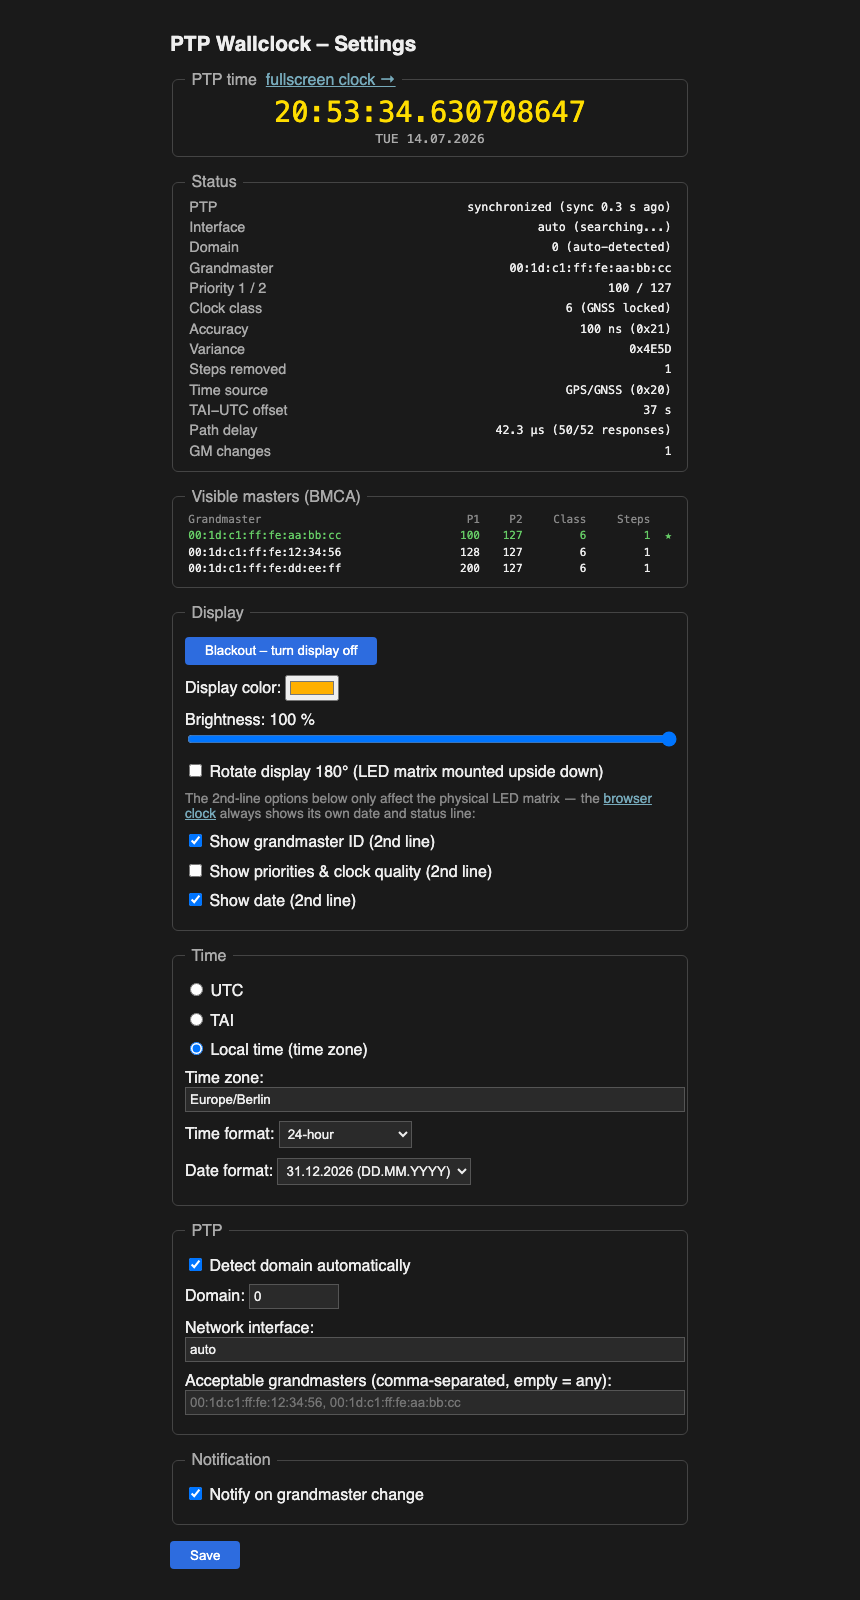
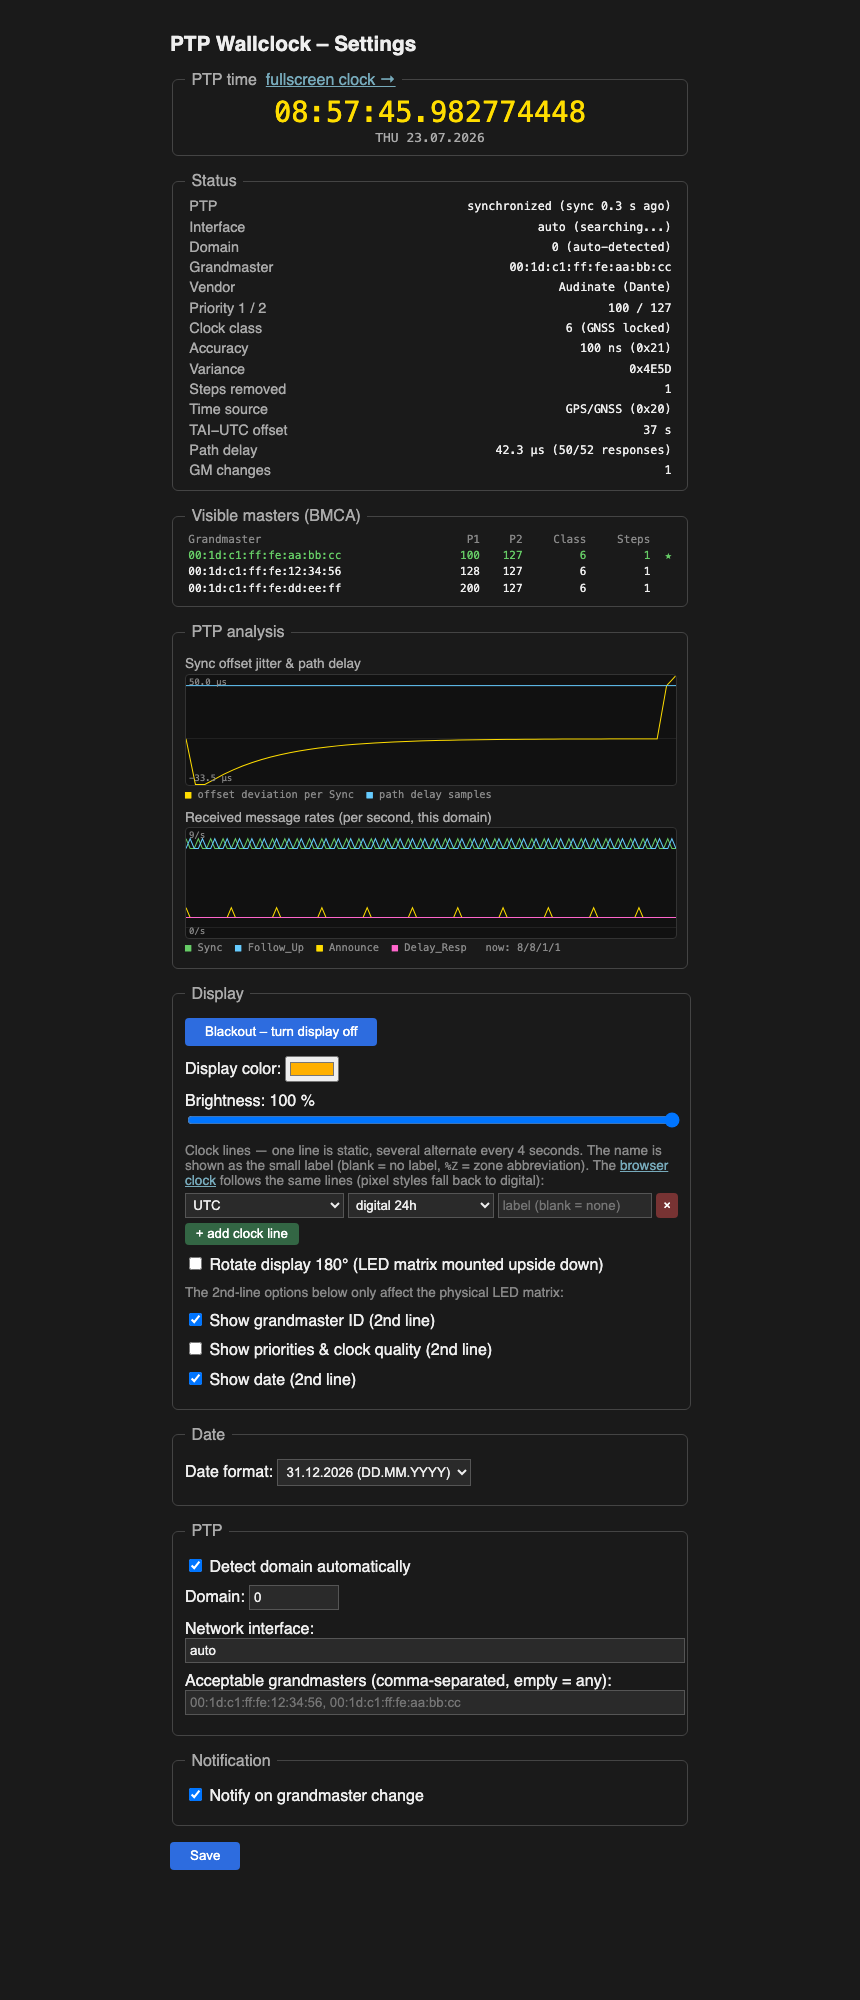
PTP analysis on the settings page: jitter/delay chart and message rates
The server keeps ring buffers (150 entries, mutex-guarded) of the sync
offset deviation per completed Sync pair, the raw path-delay samples,
and per-second received-message counts for Sync / Follow_Up / Announce /
Delay_Resp (domain-filtered wire view, counted before the BMCA filter,
rolled once per second in the main-loop tick). A new /api/history
endpoint exports them oldest-first.

The settings page draws two plain-canvas charts (no libraries): sync
offset jitter together with path-delay samples in µs, and the four
message rates with a live "now" readout. Autoscaling uses percentiles
so the step of a master switch clips at the edge instead of flattening
the µs range. Settings screenshot refreshed.

diff --git a/ptp-clock.cpp b/ptp-clock.cpp
@@ -288,6 +288,27 @@ static std::atomic<bool> g_reset_ptp{false};   // web thread requests state rese
 static std::atomic<bool> g_iface_changed{false};  // web thread changed iface
 static std::atomic<bool> g_iface_up{false};    // multicast currently joined
 
+// ---- PTP analysis history (rings guarded by g_mutex) ----
+static const int kHistN = 150;
+static int32_t g_hist_off[kHistN];             // offset deviation per Sync, ns
+static int g_hist_off_n = 0, g_hist_off_i = 0;
+static int32_t g_hist_del[kHistN];             // path delay samples, ns
+static int g_hist_del_n = 0, g_hist_del_i = 0;
+struct RateSample { uint16_t sync, fup, ann, dresp; };
+static RateSample g_hist_rate[kHistN];         // received messages per second
+static int g_hist_rate_n = 0, g_hist_rate_i = 0;
+// per-second counters (domain-filtered wire view), reset every second
+static std::atomic<uint32_t> g_cnt_sync{0}, g_cnt_fup{0};
+static std::atomic<uint32_t> g_cnt_ann{0}, g_cnt_dresp{0};
+
+static void hist_push(int32_t *buf, int &n, int &i, int64_t v) {
+    if (v > 2000000000LL) v = 2000000000LL;
+    if (v < -2000000000LL) v = -2000000000LL;
+    buf[i] = (int32_t)v;
+    i = (i + 1) % kHistN;
+    if (n < kHistN) n++;
+}
+
 // ---- Helpers ----
 static uint64_t mono_ns() {
     timespec ts;
@@ -721,6 +742,12 @@ static void complete_sync_pair(int64_t t1, int64_t t2) {
     g_have_pair = true;
 
     int64_t sample = t2 - t1 - (g_have_mpd ? g_mpd_ns : 0);
+    // Analysis history: how far this sync was off the smoothed estimate
+    {
+        std::lock_guard<std::mutex> lock(g_mutex);
+        hist_push(g_hist_off, g_hist_off_n, g_hist_off_i,
+                  g_have_offset ? sample - g_offset_ns : 0);
+    }
     if (!g_have_offset || llabs(sample - g_offset_ns) > 100000000LL) {
         g_offset_ns = sample;             // first sample or step: jump
         g_have_offset = true;
@@ -740,6 +767,7 @@ static void process_event_packet(const uint8_t *buf, ssize_t len,
     uint8_t msg_type = buf[0] & 0x0F;
     if (msg_type != 0x00)                 // only Sync
         return;
+    g_cnt_sync++;
 
     // BMCA: only accept Sync from the elected master
     if (!g_have_master || memcmp(buf + 20, g_elected_sender, 10) != 0)
@@ -772,6 +800,7 @@ static void process_general_packet(const uint8_t *buf, ssize_t len,
 
     // --- Announce (0x0B): feed the BMCA master list ---
     if (msg_type == 0x0B && len >= 64) {
+        g_cnt_ann++;
         g_last_announce_mono_ns = now_mono;
 
         GMInfo gm;
@@ -822,6 +851,7 @@ static void process_general_packet(const uint8_t *buf, ssize_t len,
     }
     // --- Follow_Up (0x08): precise origin timestamp (t1) ---
     else if (msg_type == 0x08) {
+        g_cnt_fup++;
         uint16_t seq = (buf[30] << 8) | buf[31];
         if (g_pending_sync.valid && g_pending_sync.seq == seq &&
             memcmp(g_pending_sync.src, buf + 20, 10) == 0) {
@@ -833,6 +863,7 @@ static void process_general_packet(const uint8_t *buf, ssize_t len,
     }
     // --- Delay_Resp (0x09): t4 for our Delay_Req ---
     else if (msg_type == 0x09 && len >= 54) {
+        g_cnt_dresp++;
         if (!g_pending_dreq.valid || !g_have_pair)
             return;
         if (memcmp(buf + 44, g_clock_id, 8) != 0 ||
@@ -861,6 +892,10 @@ static void process_general_packet(const uint8_t *buf, ssize_t len,
         }
         g_path_delay_ns = g_mpd_ns;
         g_dresp_received++;
+        {
+            std::lock_guard<std::mutex> lock(g_mutex);
+            hist_push(g_hist_del, g_hist_del_n, g_hist_del_i, sample);
+        }
     }
 }
 
@@ -1047,6 +1082,38 @@ static std::string settings_json() {
     return j.str();
 }
 
+// Analysis history for the settings-page charts (oldest first)
+static std::string history_json() {
+    std::lock_guard<std::mutex> lock(g_mutex);
+    std::ostringstream j;
+    auto ring = [&](const int32_t *buf, int n, int i) {
+        for (int k = 0; k < n; ++k) {
+            int idx = (i - n + k + 2 * kHistN) % kHistN;
+            j << (k ? "," : "") << buf[idx];
+        }
+    };
+    j << "{\"offset\":[";
+    ring(g_hist_off, g_hist_off_n, g_hist_off_i);
+    j << "],\"delay\":[";
+    ring(g_hist_del, g_hist_del_n, g_hist_del_i);
+    j << "],\"rates\":{";
+    const char *names[4] = {"sync", "fup", "ann", "dresp"};
+    for (int f = 0; f < 4; ++f) {
+        j << (f ? "," : "") << "\"" << names[f] << "\":[";
+        for (int k = 0; k < g_hist_rate_n; ++k) {
+            int idx = (g_hist_rate_i - g_hist_rate_n + k + 2 * kHistN)
+                      % kHistN;
+            const RateSample &r = g_hist_rate[idx];
+            uint16_t v = f == 0 ? r.sync : f == 1 ? r.fup
+                       : f == 2 ? r.ann : r.dresp;
+            j << (k ? "," : "") << v;
+        }
+        j << "]";
+    }
+    j << "}}";
+    return j.str();
+}
+
 // Favicon: an LED-style clock face (served at /favicon.svg)
 static const char *kFaviconSvg = R"SVG(<svg xmlns="http://www.w3.org/2000/svg" viewBox="0 0 64 64">
  <rect width="64" height="64" rx="14" fill="#0b0b0b"/>
@@ -1173,6 +1240,11 @@ static const char *kIndexHtml = R"HTML(<!DOCTYPE html>
         padding: 0.6em; border-radius: 4px; margin-bottom: 1em; }
  #saved { color: #6c6; visibility: hidden; margin-left: 1em; }
  .hint { color: #888; font-size: 0.85em; margin: 0.8em 0 0.2em; }
+ canvas.chart { width: 100%; height: 110px; background: #111;
+        border: 1px solid #333; border-radius: 4px; display: block; }
+ .chart-title { color: #aaa; font-size: 0.85em; margin: 0.7em 0 0.2em; }
+ .chart-legend { color: #888; font-size: 0.8em; margin: 0.2em 0 0.4em;
+        font-family: monospace; }
  .crow { display: flex; gap: 4px; margin: 0.3em 0; }
  .crow select, .crow input { padding: 0.25em; background: #2a2a2a;
         color: #eee; border: 1px solid #555; }
@@ -1223,6 +1295,22 @@ static const char *kIndexHtml = R"HTML(<!DOCTYPE html>
 <fieldset>
 <legend>Visible masters (BMCA)</legend>
 <table class="masters" id="masters"><tr><td>none</td></tr></table>
+</fieldset>
+
+<fieldset>
+<legend>PTP analysis</legend>
+<div class="chart-title">Sync offset jitter &amp; path delay</div>
+<canvas class="chart" id="ch_off"></canvas>
+<div class="chart-legend"><span style="color:#fd0">&#9632;</span> offset
+deviation per Sync &nbsp;<span style="color:#6cf">&#9632;</span> path delay
+samples</div>
+<div class="chart-title">Received message rates (per second, this domain)</div>
+<canvas class="chart" id="ch_rate"></canvas>
+<div class="chart-legend"><span style="color:#6c6">&#9632;</span> Sync
+&nbsp;<span style="color:#6cf">&#9632;</span> Follow_Up
+&nbsp;<span style="color:#fd0">&#9632;</span> Announce
+&nbsp;<span style="color:#f6c">&#9632;</span> Delay_Resp
+&nbsp;&nbsp;<span id="rate_now"></span></div>
 </fieldset>
 
 <form id="form">
@@ -1534,6 +1622,76 @@ function renderClock() {
   renderClock();
   requestAnimationFrame(clockTick);
 })();
+
+// --- Analysis charts (plain canvas, no libraries) ---
+function drawChart(id, series, fmt, includeZero) {
+  const cv = document.getElementById(id);
+  const w = cv.width = cv.clientWidth * 2;      // 2x for crisp lines
+  const h = cv.height = 220;
+  const g = cv.getContext('2d');
+  g.clearRect(0, 0, w, h);
+  let all = [];
+  series.forEach(s => { all = all.concat(s.data); });
+  if (!all.length) {
+    g.fillStyle = '#666';
+    g.font = '20px sans-serif';
+    g.fillText('collecting data...', 10, 30);
+    return;
+  }
+  // Robust autoscale: percentiles keep step outliers (master switches)
+  // from flattening the interesting range; outliers clip at the edge
+  const sorted = all.slice().sort((a, b) => a - b);
+  const q = f => sorted[Math.max(0, Math.min(sorted.length - 1,
+      Math.floor(f * (sorted.length - 1))))];
+  let mn = q(0.03), mx = q(0.97);
+  if (includeZero) { mn = Math.min(mn, 0); mx = Math.max(mx, 0); }
+  if (mx === mn) { mx += 1; mn -= 1; }
+  const pad = (mx - mn) * 0.12;
+  const lo = mn - pad, hi = mx + pad;
+  const y = v => Math.max(1, Math.min(h - 1,
+      h - (v - lo) / (hi - lo) * h));
+  if (includeZero && mn <= 0 && mx >= 0) {
+    g.strokeStyle = '#333';
+    g.beginPath(); g.moveTo(0, y(0)); g.lineTo(w, y(0)); g.stroke();
+  }
+  series.forEach(s => {
+    if (!s.data.length) return;
+    g.strokeStyle = s.color;
+    g.lineWidth = 2;
+    g.beginPath();
+    s.data.forEach((v, k) => {
+      const x = k / Math.max(1, s.data.length - 1) * w;
+      k ? g.lineTo(x, y(v)) : g.moveTo(x, y(v));
+    });
+    g.stroke();
+  });
+  g.fillStyle = '#888';
+  g.font = '18px monospace';
+  g.fillText(fmt(mx), 6, 20);
+  g.fillText(fmt(mn), 6, h - 8);
+}
+
+async function pollHistory() {
+  try {
+    const hh = await fetch('/api/history').then(r => r.json());
+    drawChart('ch_off', [
+      {data: hh.offset.map(v => v / 1000), color: '#fd0'},
+      {data: hh.delay.map(v => v / 1000), color: '#6cf'}
+    ], v => v.toFixed(1) + ' µs', true);
+    drawChart('ch_rate', [
+      {data: hh.rates.sync, color: '#6c6'},
+      {data: hh.rates.fup, color: '#6cf'},
+      {data: hh.rates.ann, color: '#fd0'},
+      {data: hh.rates.dresp, color: '#f6c'}
+    ], v => Math.round(v) + '/s', true);
+    const last = a => a.length ? a[a.length - 1] : 0;
+    document.getElementById('rate_now').textContent =
+        'now: ' + last(hh.rates.sync) + '/' + last(hh.rates.fup) + '/' +
+        last(hh.rates.ann) + '/' + last(hh.rates.dresp);
+  } catch (e) {}
+}
+pollHistory();
+setInterval(pollHistory, 2000);
 
 const set = (id, text) => document.getElementById(id).textContent = text;
 let lastChanges = null;
@@ -1931,6 +2089,8 @@ static void handle_client(int fd) {
         send_response(fd, "200 OK", "application/json", settings_json());
     } else if (method == "GET" && path == "/api/status") {
         send_response(fd, "200 OK", "application/json", status_json());
+    } else if (method == "GET" && path == "/api/history") {
+        send_response(fd, "200 OK", "application/json", history_json());
     } else if (method == "POST" && path == "/api/settings") {
         auto kv = parse_form(body);
         {
@@ -2299,11 +2459,19 @@ int main(int argc, char **argv) {
             }
         }
 
-        // --- BMCA housekeeping: drop masters that stopped announcing ---
+        // --- BMCA housekeeping + per-second analysis tick ---
         if (now_ns - last_bmca_ns >= 1000000000ULL) {
             last_bmca_ns = now_ns;
             std::lock_guard<std::mutex> lock(g_mutex);
             bmca_elect_locked(now_ns);
+            g_hist_rate[g_hist_rate_i] = {
+                (uint16_t)g_cnt_sync.exchange(0),
+                (uint16_t)g_cnt_fup.exchange(0),
+                (uint16_t)g_cnt_ann.exchange(0),
+                (uint16_t)g_cnt_dresp.exchange(0)};
+            g_hist_rate_i = (g_hist_rate_i + 1) % kHistN;
+            if (g_hist_rate_n < kHistN)
+                g_hist_rate_n++;
         }
 
         // --- Delay_Req once per second, out of every joined interface

diff --git a/README.md b/README.md
@@ -206,6 +206,13 @@ Delay_Req/Delay_Resp counter. A separate table lists all masters
 currently visible in the domain with the BMCA-elected one marked — handy for
 watching a failover happen.
 
+A **PTP analysis** section charts the last couple of minutes: sync offset
+jitter (how far each Sync was off the smoothed estimate) together with the
+raw path-delay samples, and the received message rates per second (Sync,
+Follow_Up, Announce, Delay_Resp) in the active domain. The charts
+auto-scale on percentiles, so the step of a master switch doesn't flatten
+the interesting µs range.
+
 > Note: browser push notifications require the page to be allowed to notify;
 > on plain HTTP some browsers only show the in-page banner.
 